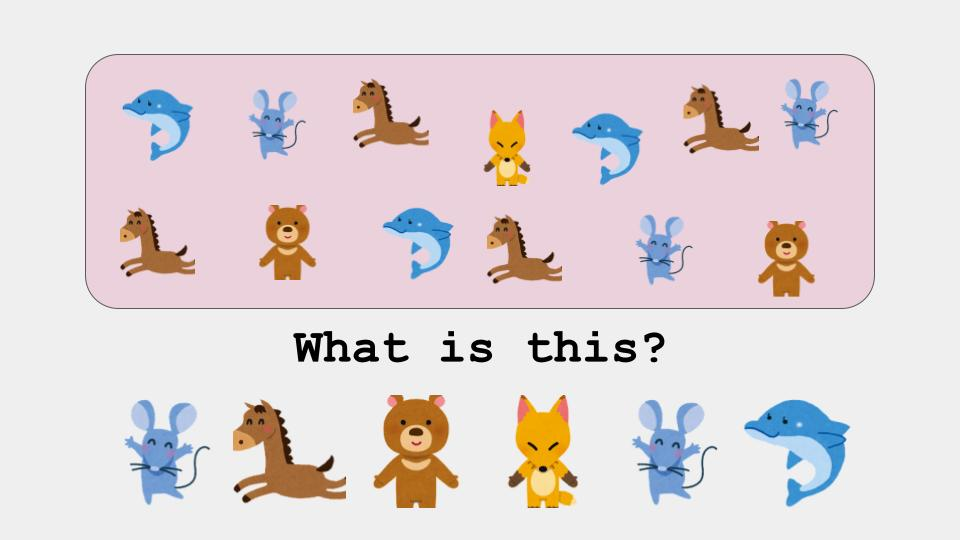
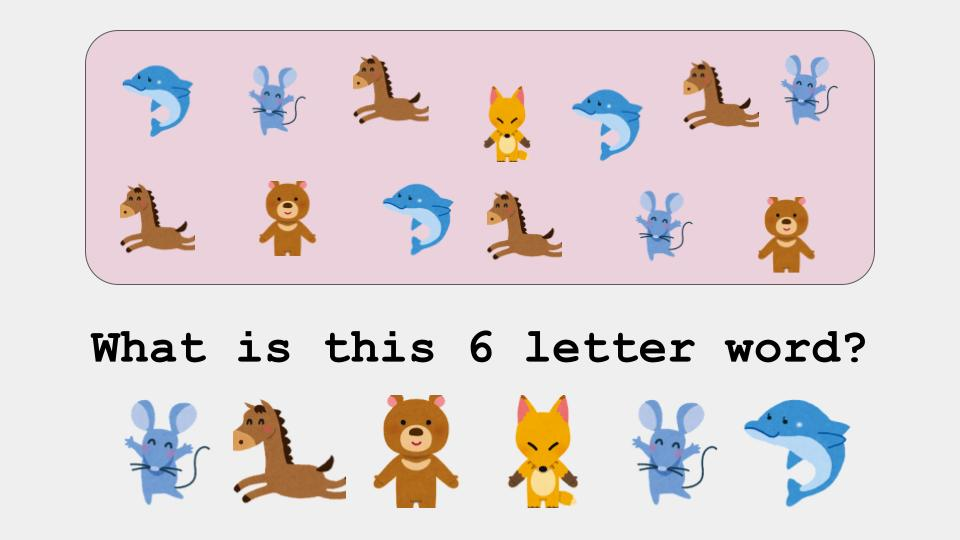
Add hints in Code 4

Changed region(s): [[0.0625, 0.1481, 0.9375, 0.6815], [0.0625, 0.0296, 0.9375, 0.3556]]

diff --git a/app.js b/app.js
@@ -80,6 +80,14 @@ const answer4Elem = document.querySelector('.answer4')
 const message4Elem = document.querySelector('.message4')
 const cw4Elem = document.querySelector('.cw4')
 const inputBtn4 = document.querySelector('.input-btn4')
+const hint4Btn = document.querySelector('.hint4-btn')
+const hint4Elem = document.querySelector('.hint4')
+const hint41Btn = document.querySelector('.hint4-1-btn')
+const hint41Elem = document.querySelector('.hint4-1')
+const hint42Btn = document.querySelector('.hint4-2-btn')
+const hint42Elem = document.querySelector('.hint4-2')
+const hint43Btn = document.querySelector('.hint4-3-btn')
+const hint43Elem = document.querySelector('.hint4-3')
 
 const code5TxtElem = document.querySelector('.code5-txt')
 const code5Wrapperelem = document.querySelector('.code5-wrapper')
@@ -198,6 +206,22 @@ code3TxtElem.addEventListener('click', function() {
 
 code4TxtElem.addEventListener('click', function() {
   code4Wrapperelem.classList.toggle('display-show')
+})
+
+hint4Btn.addEventListener('click', function() {
+  hint4Elem.classList.toggle('display-show')
+})
+
+hint41Btn.addEventListener('click', function() {
+  hint41Elem.classList.toggle('display-inline')
+})
+
+hint42Btn.addEventListener('click', function() {
+  hint42Elem.classList.toggle('display-inline')
+})
+
+hint43Btn.addEventListener('click', function() {
+  hint43Elem.classList.toggle('display-inline')
 })
 
 code5TxtElem.addEventListener('click', function() {

diff --git a/index.html b/index.html
@@ -217,6 +217,12 @@
           <div class="input-btn input-btn4">
             <input type="text" name="answer-code4-input" class="answer-code4-input">
             <button class="answer4-btn">Submit</button>
+            <p class="hint4-btn">hint</p>
+            <div class="hint4 display-hide">
+              <p class="hint4-1-btn">hint 1: <span class="hint4-1 display-hide">How many of each animal are in the frame?</span></p>
+              <p class="hint4-2-btn">hint 2: <span class="hint4-2 display-hide"><img src="image/mouse.png" alt="mouse" height="40px">represents "u".</span></p>
+              <p class="hint4-3-btn">hint 3: <span class="hint4-3 display-hide">The third letter of "mouse" is "u"</span></p>
+            </div>
           </div>
           <div class="messages message4 display-hide">
             <p>You told Sherlock that "I got it! This must be <span class="answer4"></span>."</p>
